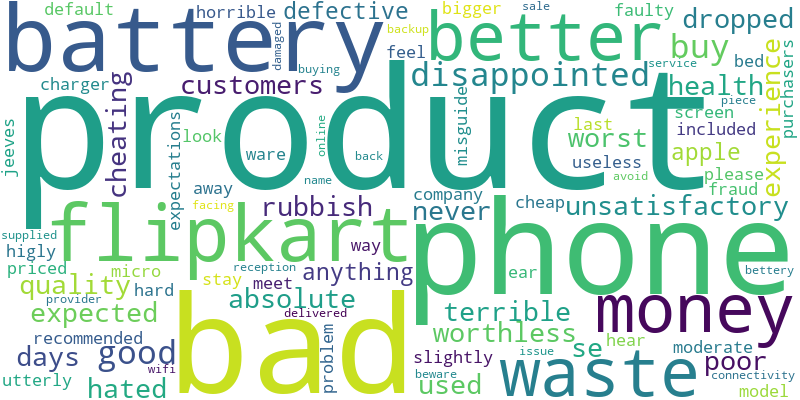
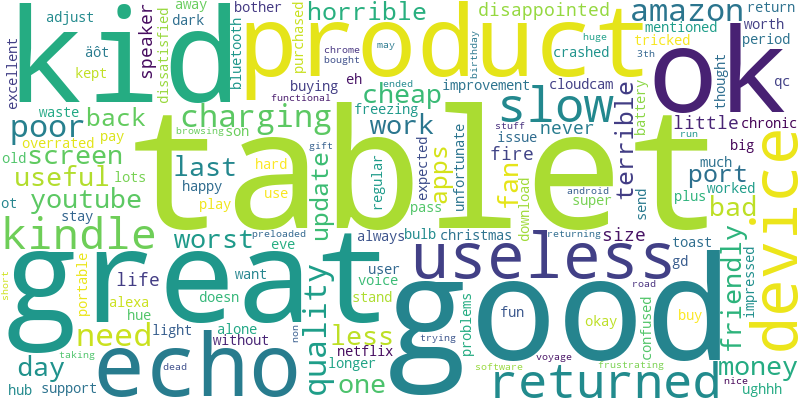
ca se superpose plus

diff --git a/web_masterC-2/app copy.py b/web_masterC-2/app copy.py
@@ -23,12 +23,8 @@ lemmatizer = WordNetLemmatizer()
 # Get the absolute path of the directory where the Flask application is located
 app_dir = os.path.dirname(os.path.abspath(__file__))
 # Specify the relative file paths within the static folder
-wordcloud_all_filename = os.path.join(app_dir, 'static', 'wordcloud_all.png')
-wordcloud_negative_filename = os.path.join(app_dir, 'static', 'wordcloud_negative.png')
-wordcloud_positive_filename= os.path.join(app_dir, 'static', 'wordcloud_postive.png')
+wordcloud_filename = os.path.join(app_dir, 'static', 'wordcloud.png')
 pie_chart_filename = os.path.join(app_dir, 'static', 'pie_chart.png')
-
-
 def preprocess_text(text):
     if isinstance(text, str):  # Check if text is a valid string
         text = text.lower()
@@ -49,44 +45,18 @@ vectorizer = pickle.load(open('./System/ia/ia_models/tfidf_vectorizer.pkl', 'rb'
 
 
 def generate_wordcloud(data):
-    
-    sentiment_mapping = {
-        'very negative': 1,
-        'negative': 2,
-        'neutral': 3,
-        'positive': 4,
-        'very positive': 5
-    }
+    # Concaténer les valeurs uniques de la colonne 'Review' en une seule chaîne de caractères
+    text = ' '.join(data['Review'].dropna().astype(str).unique().tolist())
 
-    data['Sentiment'] = data['Sentiment'].map(sentiment_mapping)
-    # Prétraitement des textes pour les sentiments positifs
-    positive_text = ' '.join(data[data['Sentiment'].astype(int) >= 4]['Review'].dropna().astype(str).unique().tolist())
-    
-    preprocessed_positive_text = preprocess_text(positive_text)
+    # Prétraitement du texte
+    preprocessed_text = preprocess_text(text)
 
-    # Prétraitement des textes pour les sentiments négatifs
-    negative_text = ' '.join(data[data['Sentiment'].astype(int) <= 2]['Review'].dropna().astype(str).unique().tolist())
+    # Créer l'objet WordCloud
+    wordcloud = WordCloud(width=800, height=400, background_color='white').generate(preprocessed_text)
 
-    preprocessed_negative_text = preprocess_text(negative_text)
-
-    # Prétraitement des textes pour tous les mots
-    all_text = ' '.join(data['Review'].dropna().astype(str).unique().tolist())
-    preprocessed_all_text = preprocess_text(all_text)
-
-    # Création des objets WordCloud
-    wordcloud_positive = WordCloud(width=800, height=400, background_color='white').generate(preprocessed_positive_text)
-    wordcloud_negative = WordCloud(width=800, height=400, background_color='white').generate(preprocessed_negative_text)
-    wordcloud_all = WordCloud(width=800, height=400, background_color='white').generate(preprocessed_all_text)
-
-    # Sauvegarde des nuages de mots en tant qu'images
-
-
-    wordcloud_positive.to_file(wordcloud_positive_filename)
-    wordcloud_negative.to_file(wordcloud_negative_filename)
-    wordcloud_all.to_file(wordcloud_all_filename)
-
-    return wordcloud_positive_filename, wordcloud_negative_filename, wordcloud_all_filename
-
+    # Sauvegarder le nuage de mots en tant qu'image
+  
+    wordcloud.to_file(wordcloud_filename)
 
 
 def generate_sentiment_pie_chart(data):
@@ -106,22 +76,18 @@ def generate_sentiment_pie_chart(data):
     # Compter les occurrences de chaque catégorie de sentiment
     sentiment_counts = data['Sentiment'].value_counts()
 
-    # Réinitialiser le graphique précédent
-    plt.clf()
-
-    # Tracé du graphique en camembert
+    # Plot du graphique en camembert
     labels = sentiment_counts.index
     sizes = sentiment_counts.values
 
     colors = ['#00ff00', '#66ff66', 'gray', '#ff6666', '#ff0000']
-    explode = (0, 0, 0, 0, 0)
+    explode = (0.1, 0, 0, 0, 0)
 
     plt.pie(sizes, explode=explode, labels=labels, colors=colors, autopct='%1.1f%%', startangle=90)
     plt.axis('equal')
 
-    # Sauvegarde du graphique en tant qu'image
+    
     plt.savefig(pie_chart_filename)
-
 
 
 app = Flask(__name__)
@@ -129,8 +95,6 @@ app = Flask(__name__)
 
 @app.route('/')
 def home():
-    global data 
-    data = None
     return render_template('index.html')
 
 
@@ -138,7 +102,7 @@ def home():
 def upload():
     if 'file' not in request.files:
         return redirect('/')
-    data = None
+
     file = request.files['file']
 
     # Lire le fichier CSV en utilisant pandas
